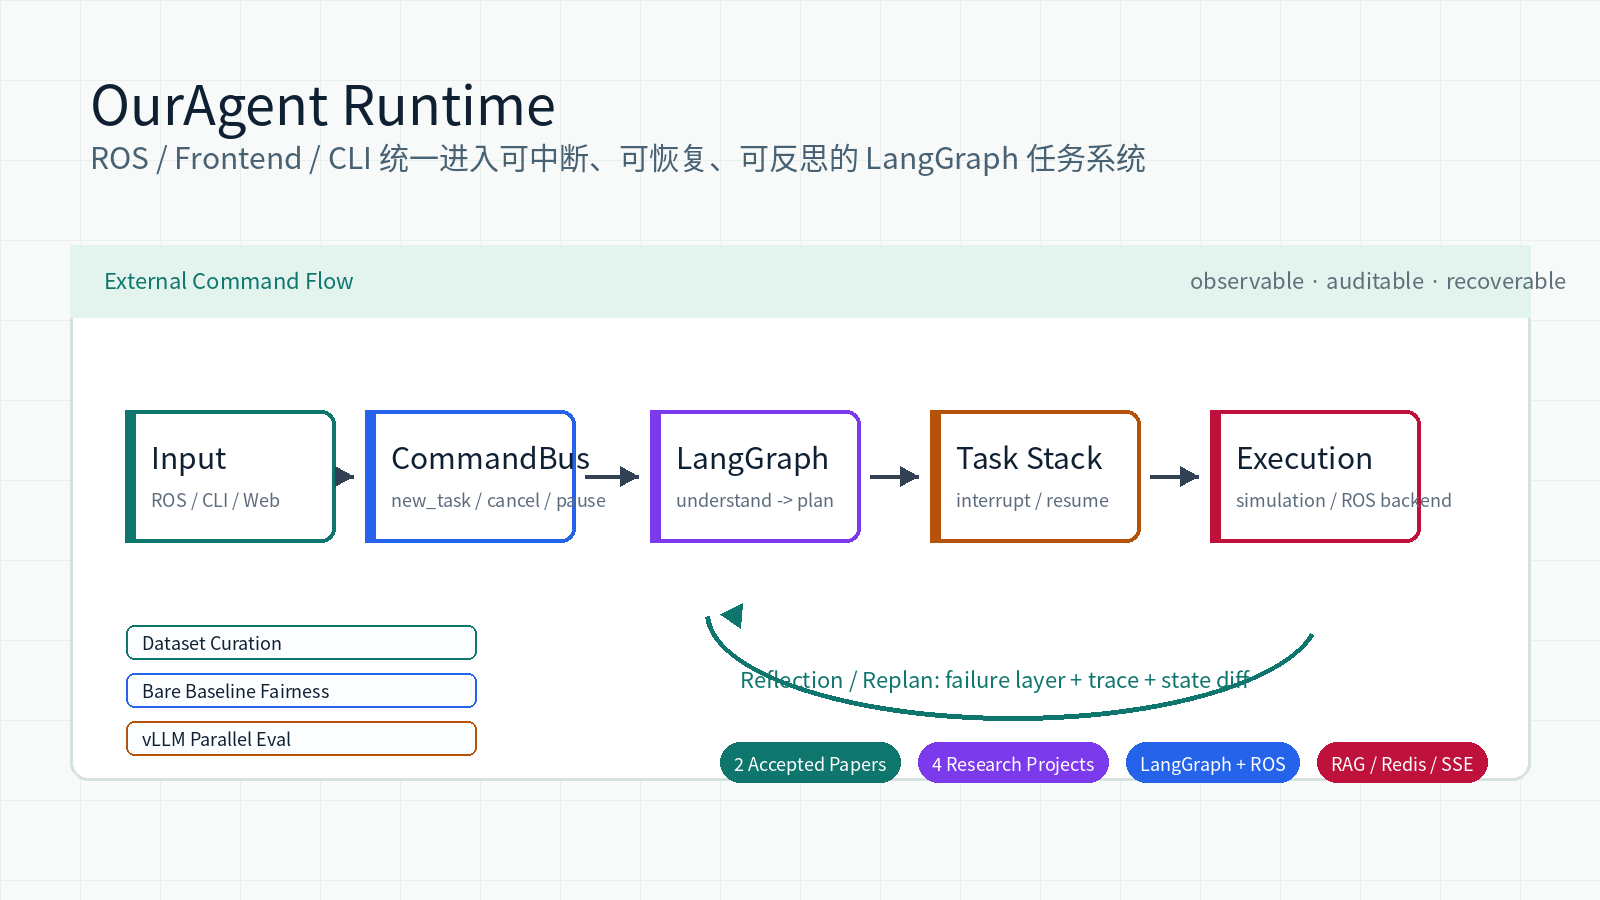
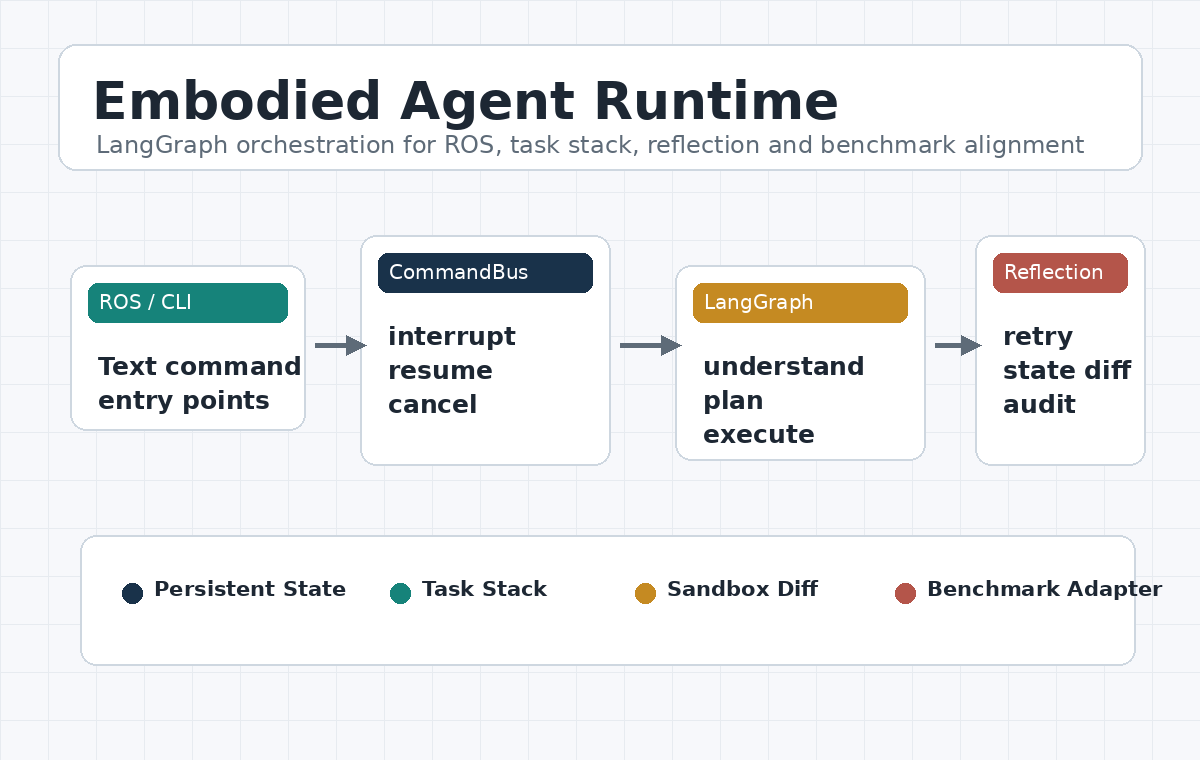
Polish Chinese portfolio profile

diff --git a/index.html b/index.html
@@ -28,11 +28,11 @@
           <div class="links">
             <a href="https://github.com/my420254">GitHub</a>
             <a href="https://gitee.com/my420254">Gitee</a>
-            <a href="README.md">Profile README</a>
+            <a href="README.md">项目主页</a>
           </div>
         </div>
         <figure class="hero-visual">
-          <img src="site/agent-runtime-visual.png" alt="OurAgent runtime workflow">
+          <img src="site/agent-runtime-visual.png" alt="Embodied Agent Runtime workflow">
         </figure>
       </div>
     </section>
@@ -113,12 +113,12 @@
 
     <section class="section">
       <div class="section-head">
-        <h2>OurAgent</h2>
+        <h2>Embodied Agent Runtime</h2>
         <span>LangGraph Runtime</span>
       </div>
       <div class="feature">
         <p>
-          <a href="https://github.com/my420254/OurAgent-he1">OurAgent-he1</a>
+          <a href="https://github.com/my420254/Embodied-Agent-Runtime">Embodied Agent Runtime</a>
           是面向 ROS / 前端 / CLI 的 LangGraph 常驻运行时，核心能力是 CommandBus、
           ROS 文本接入、任务栈式中断与恢复、取消暂停、分层反思，以及多模型评测调度。
         </p>
@@ -130,10 +130,6 @@
           <span>ROS</span>
           <span>Benchmark Adapter</span>
         </div>
-        <p>
-          <a href="https://github.com/my420254/OurAgent">OurAgent</a>
-          保留 benchmark 和论文方法对比版本，用于展示 DELTA / EAI / ReAcTree 等评测链路。
-        </p>
       </div>
     </section>
 

diff --git a/site/index.html b/site/index.html
@@ -28,11 +28,11 @@
           <div class="links">
             <a href="https://github.com/my420254">GitHub</a>
             <a href="https://gitee.com/my420254">Gitee</a>
-            <a href="../README.md">Profile README</a>
+            <a href="../README.md">项目主页</a>
           </div>
         </div>
         <figure class="hero-visual">
-          <img src="agent-runtime-visual.png" alt="OurAgent runtime workflow">
+          <img src="agent-runtime-visual.png" alt="Embodied Agent Runtime workflow">
         </figure>
       </div>
     </section>
@@ -113,12 +113,12 @@
 
     <section class="section">
       <div class="section-head">
-        <h2>OurAgent</h2>
+        <h2>Embodied Agent Runtime</h2>
         <span>LangGraph Runtime</span>
       </div>
       <div class="feature">
         <p>
-          <a href="https://github.com/my420254/OurAgent-he1">OurAgent-he1</a>
+          <a href="https://github.com/my420254/Embodied-Agent-Runtime">Embodied Agent Runtime</a>
           是面向 ROS / 前端 / CLI 的 LangGraph 常驻运行时，核心能力是 CommandBus、
           ROS 文本接入、任务栈式中断与恢复、取消暂停、分层反思，以及多模型评测调度。
         </p>
@@ -130,10 +130,6 @@
           <span>ROS</span>
           <span>Benchmark Adapter</span>
         </div>
-        <p>
-          <a href="https://github.com/my420254/OurAgent">OurAgent</a>
-          保留 benchmark 和论文方法对比版本，用于展示 DELTA / EAI / ReAcTree 等评测链路。
-        </p>
       </div>
     </section>
 

diff --git a/public_showcase.md b/public_showcase.md
@@ -1,182 +1,40 @@
-# 对外展示总览
+# 项目总览
 
-这份文档的用途很明确：把你这几年做的工作压成一条清晰的主线，方便你自己回忆，也方便后续改成简历、主页和面试讲述稿。
+这里汇总我的研究和工程项目，重点覆盖智能体运行时、参数高效微调、结构化 NLP 和大模型应用工程。
 
-## 你的岗位定位
+## 技术主线
 
-智能体研发，偏具身规划、大模型应用架构、数据治理和系统工程。
+```text
+数据集清洗与重构
+  -> LoRA / DoRA / PEFT 微调
+  -> 长尾与结构化 NLP 建模
+  -> vLLM 部署与并行评测
+  -> LangGraph 智能体运行时
+  -> ROS / 前端 / CLI 文本接入
+  -> RAG、Redis 记忆与流式服务
+```
 
-## 一句话主线
+## 项目矩阵
 
-你不是只做了单个模型，也不是只做了单个框架，而是把“数据清洗 -> 监督微调 -> 论文方法验证 -> 智能体运行时 -> benchmark 接入 -> 外部命令入口”这条链路真正打通了。
-
-## 公开项目矩阵
-
-| 名称 | 类型 | 状态 | 你可以强调的点 |
+| 项目 | 类型 | 状态 | 关键词 |
 | --- | --- | --- | --- |
-| Hy-MoRA | 长尾情感分析 PEFT 论文 | WISA 中文会议已接收 | 110M 级模型对标 7B LLM，长尾感知和部署效率同时成立 |
-| HiPro-LoRA | 低资源情感分析 PEFT 论文 | ECML-PKDD 已接收，CCF B | 严格 held-out 协议，验证集只做选择，测试集只做最终报告 |
-| SPEAR | ECPE 论文 | KBS 投稿版本，高影响力期刊方向 | 结构解耦、DoRA biaffine、R-Drop、窗口约束解码 |
-| FASTE | ASTE 论文 | ESWA 投稿版本，高影响力期刊方向 | 多层特征融合 + 对抗训练，兼顾边界对齐和实时性 |
-| OurAgent-he1 | 实习核心 Agent runtime | 已公开 | LangGraph + ROS 文本服务 + CommandBus + 中断恢复 + 反思闭环 |
-| OurAgent | benchmark / paper method runtime | 已公开 | DELTA / EAI / ReAcTree 多 benchmark，对比论文方法和裸基线 |
-| Agentic-RAG-Platform | 大模型应用工程展示 | 已公开 | FastAPI + SSE + Redis + RAG + Vue3，覆盖企业知识库和多工具 Agent |
+| [Embodied Agent Runtime](https://github.com/my420254/Embodied-Agent-Runtime) | 具身智能体运行时 | 实习核心项目 | LangGraph、ROS2、CommandBus、任务栈、中断恢复、反思重试 |
+| [HiPro-LoRA](https://github.com/my420254/HiPro-LoRA) | PEFT 论文项目 | ECML-PKDD 已接收，CCF B | LoRA、长尾学习、严格 held-out、LLM baseline |
+| [Hy-MoRA](https://github.com/my420254/Hy-Mora) | PEFT 论文项目 | WISA 中文会议已接收 | 中文社交媒体、尾部记忆、层次化语义聚合、部署效率 |
+| [FASTE](https://github.com/my420254/FASTE) | ASTE 论文项目 | ESWA 投稿版本 | 三元组抽取、span-based、MLFF、AT-FGM |
+| [SPEAR / ECPE](https://github.com/my420254/ECPE) | ECPE 论文项目 | KBS 投稿版本 | 情绪原因对抽取、DoRA-biaffine、R-Drop、窗口解码 |
+| [Agentic-RAG-Platform](https://github.com/my420254/Agentic-RAG-Platform) | 大模型应用工程 | 展示项目 | FastAPI、SSE、Redis、RAG、Vue3、工具调用 |
 
-## 1. Hy-MoRA
+## 代表能力
 
-### 解决的问题
+- **从数据到模型**：能够处理原始数据清洗、类别分布重构、训练/验证/测试协议设计和可复现实验输出。
+- **从方法到论文**：能够完成方法设计、消融实验、敏感性分析、图表生成、实验对比和投稿材料整理。
+- **从模型到系统**：能够把大模型能力接入 LangGraph runtime、ROS 文本入口、CommandBus、执行后端和 benchmark 评测链路。
+- **从原型到展示**：能够把 RAG、Redis、SSE、工具调用和前端工作台组织成可阅读、可运行、可扩展的工程骨架。
 
-中文社交媒体长尾情感分析里，少数类特征容易退化，常规 LoRA 在低秩约束下很难把尾部类别拉开。
+## 当前公开入口
 
-### 你做了什么
-
-- 设计了层次化语义聚合模块，缓解 `[CLS]` 单点表征不够用的问题。
-- 设计了尾部感知记忆对齐模块，用原型记忆和尾部加权对比目标强化少数类边界。
-- 把部署阶段和训练阶段解耦，确保推理时没有额外延迟。
-
-### 亮点
-
-- 110M 参数级别就能和 7B LLM 做有效对比。
-- 在 SMP2020-EWECT 上，Macro-F1 相比 Qwen-2.5 7B 基线提升 6.12 个百分点。
-- 推理吞吐量约提升 55 倍，适合高并发舆情场景。
-
-### 对外讲法
-
-“我做的是一个能落地的长尾感知 PEFT 框架，不只是把 LoRA 调一调，而是把表示瓶颈和尾部边界问题一起处理掉。”
-
-## 2. HiPro-LoRA
-
-### 解决的问题
-
-低资源、长尾分布下，LoRA 容易出现 minority class 表征退化，特别是在严格 held-out 设置下，很多方法一到最终测试就掉点。
-
-### 你做了什么
-
-- 设计了层次化池化模块，补足单纯 `[CLS]` 的信息损失。
-- 设计了 prototype memory regularization，让尾部类别的几何边界更稳定。
-- 用严格 held-out 协议重新组织实验，避免把验证集选择和最终报告混在一起。
-
-### 亮点
-
-- 在 6 组 held-out 配置里，Tail-F1 有 5 组最优，Macro-F1 有 4 组最优。
-- 在 SMP2020、SST-5、TweetEval 三个数据上都能保持稳定优势。
-- 对比的是严格 few-shot / ICL 设定下的大模型结果，结论更硬。
-
-### 对外讲法
-
-“我不是只做了一个更大的模型，而是把低资源场景里的表征退化问题拆开、测透、再修好。”
-
-## 3. SPEAR / ECPE
-
-### 解决的问题
-
-情感-原因对提取本质上是一个高精度结构抽取任务，现有方法容易在长距离噪声和过拟合上出问题。
-
-### 你做了什么
-
-- 做了跨度感知的 clause 表征，补足纯 CLS 表示的粗糙性。
-- 引入 DoRA biaffine scoring，提升解耦打分的稳定性。
-- 用 R-Drop 和窗口约束解码抑制过置信预测和远距离假阳性。
-
-### 亮点
-
-- 严格 10 折交叉验证下达到 77.24% F1。
-- 比此前最优基线提升 0.87 个百分点。
-- Precision 提升幅度更明显，说明模型不是只“追召回”，而是结构更稳。
-
-### 对外讲法
-
-“我把 ECPE 从单纯堆模型，推进到更讲结构归纳偏置的抽取框架，强调高精度和可解释的边界约束。”
-
-## 4. FASTE / ASTE
-
-### 解决的问题
-
-ASTE 里很多方法只看最后一层，边界信息和局部语法很容易丢，导致 triplet 边界错位。
-
-### 你做了什么
-
-- 做多层特征融合，把中间层语法信息拉回来。
-- 加入对抗训练，平滑高噪文本下的损失地形。
-- 保持非生成式抽取路线，兼顾边界精度和实时性。
-
-### 亮点
-
-- 在 ASTE-Data-V2 上达到非生成式系统里的强结果。
-- 14lap 上 F1 到 66.60。
-- 模型体量和吞吐量都适合工程部署，而不是只适合论文图表。
-
-### 对外讲法
-
-“我做的是一个面向真实应用的 ASTE 框架，不是泛泛的情感分析 baseline。”
-
-## 5. OurAgent-he1 / OurAgent
-
-### 解决的问题
-
-把模型真正放进智能体 runtime 之后，问题不再是“能不能预测”，而是：
-
-- 外部指令怎么进来
-- 新任务来了怎么插单
-- 旧任务怎么挂起和恢复
-- 失败后怎么分层反思
-- 多 benchmark 怎么统一跑
-
-### 你做了什么
-
-- 用 LangGraph 拆成 Understanding / Planning / Task Management / Reflection 四阶段。
-- 做 CommandBus，把 ROS 文本、CLI 命令和外部输入统一成结构化任务流。
-- 设计任务栈式中断与恢复，支持多层嵌套插单。
-- 把 benchmark、执行器和本地大模型调用解耦，方便并行跑多个环境。
-- 把 `main.py` 收敛成正式 ROS / 前端入口，把 `scripts/run_agent.py` 收敛成 CLI 调试入口。
-
-### 亮点
-
-- 这不是脚本集合，而是一个有运行时边界的 agent framework。
-- 你已经把“模型能力”变成“能接任务、能恢复、能追踪、能复盘”的系统能力。
-- 对外讲的时候，这一块最能体现你是系统型智能体研发，不是只会调 prompt。
-- `OurAgent-he1` 展示实时任务接入、中断恢复、取消暂停和 ROS 端到端链路。
-- `OurAgent` 展示 benchmark 对比、paper method / bare baseline 公平评测和多数据集实验组织。
-
-### 对外讲法
-
-“我把一个规划模型接进了可中断、可恢复、可反思的智能体系统，真正做到了训练、部署、评估、调度一体化。”
-
-## GitHub / Gitee 展示建议
-
-### GitHub 主页
-
-主页只放三件事：
-
-1. 你是谁，做什么
-2. 你最强的 4 篇论文和 1 个系统框架
-3. 你的公开链接和联系方式
-
-### 仓库 README
-
-每个仓库都按同一个模板写：
-
-1. 一句话问题定义
-2. 方法框图或模块说明
-3. 核心结果
-4. 运行入口
-5. 论文状态
-
-### Gitee 镜像
-
-Gitee 只负责国内可访问，不要和 GitHub 两套内容分裂。
-
-## 后续还能继续补的展示方向
-
-- RAG：`Agentic-RAG-Platform` 已补第一版，后续可加入真实向量库、reranker 和评测集
-- Agent：工具调用、任务分解、长短期记忆、失败恢复
-- LLM Ops：并行调度、推理服务、量化、吞吐和延迟优化
-- 数据方向：清洗、对齐、抽样、评测集构造、偏差分析
-
-你后面如果继续做这些内容，GitHub 主页就不需要重新装修，只要往同一套结构里加新卡片即可。
-
-## 公共口径边界
-
-- 可以写：已接收、投稿中、最终版已提交、核心结果、系统能力。
-- 不建议先写：未经官方确认的录取率、夸大的排名、无法复现的绝对速度数字。
-- 需要写录取率时，补官方来源后再写。
+- GitHub：<https://github.com/my420254>
+- Gitee：<https://gitee.com/my420254>
+- Portfolio：<https://my420254.github.io/my420254/>
+- Email：1127141319@qq.com

diff --git a/README.md b/README.md
@@ -1,64 +1,40 @@
 # 张梦洋
 
-智能体研发 / 具身规划 / 长尾感知与 PEFT / 论文与系统工程
+**智能体研发 / 大模型应用算法 / NLP 与参数高效微调**
 
-我做的不是单点模型，而是把论文方法、实验协议和运行时系统做成闭环。
-论文、代码、实验、图表和稿件整理均由本人主导完成。
+邮箱：1127141319@qq.com
 
-## 我最强的几件事
+GitHub Pages：<https://my420254.github.io/my420254/>
 
-- 能把原始数据清洗成可训练、可审计、可复现的数据集
-- 能把 LoRA / DoRA / prototype memory / hierarchical pooling 落到可跑代码
-- 能把模型接进 LangGraph / ROS / CommandBus / benchmark runtime
-- 能把并行推理、评测协议、部署吞吐和结果复盘一起管住
+Gitee 镜像：<https://gitee.com/my420254>
 
-## 代表成果
+我关注大模型智能体、具身任务规划、NLP 结构化抽取和参数高效微调。过去的工作覆盖了从数据集清洗、模型训练、论文实验，到 LangGraph 运行时、ROS/前端文本接入、vLLM 并行评测和 RAG 工程化展示的完整链路。
 
-| 项目 | 状态 | 我做的核心工作 | 结果亮点 |
+## 研究与工程方向
+
+- **智能体运行时**：LangGraph 图编排、CommandBus 外部命令通道、任务栈式中断恢复、执行反馈、失败反思与局部重试。
+- **参数高效微调**：LoRA / DoRA / PEFT、长尾学习、原型记忆、层次化语义聚合、低资源情感分析。
+- **结构化 NLP**：情感原因对抽取、方面级情感三元组抽取、span-based 表示、biaffine 关系建模、对抗训练。
+- **大模型工程化**：vLLM 部署、多端口并行实验、RAG 检索增强生成、Redis 会话记忆、FastAPI/SSE 流式服务。
+
+## 代表项目
+
+| 项目 | 状态 | 核心内容 | 价值 |
 | --- | --- | --- | --- |
-| [Hy-MoRA](https://github.com/my420254/Hy-Mora) | WISA 中文会议已接收 | 设计层次化语义聚合 + 尾部感知记忆对齐，完成实验与图表整理 | 110M 级 PEFT 框架，在 SMP2020-EWECT 上对标 7B LLM，Macro-F1 提升 6.12 个百分点，吞吐量提升约 55 倍 |
-| [HiPro-LoRA](https://github.com/my420254/HiPro-LoRA) | ECML-PKDD 已接收，CCF B | 做严格 held-out 协议、完成结果整理和稳定性验证 | 5/6 配置 Tail-F1 最优，4/6 配置 Macro-F1 最优 |
-| [SPEAR](https://github.com/my420254/ECPE) | KBS 投稿版本，高影响力期刊方向 | 设计 span-aware 表征、DoRA biaffine、R-Drop 和窗口约束解码 | 10 折交叉验证 F1 达到 77.24% |
-| [FASTE](https://github.com/my420254/FASTE) | ESWA 投稿版本，高影响力期刊方向 | 设计多层特征融合 + 对抗训练，并完成论文图表与实验闭环 | ASTE 抽取达到强基线水平，兼顾边界精度与工程实时性 |
-| [OurAgent-he1](https://github.com/my420254/OurAgent-he1) | 实习核心项目 | 把规划能力接入 LangGraph runtime、ROS 文本服务和 CommandBus | 支持外部文本接入、任务插单、栈式恢复、取消暂停、反思重试 |
-| [OurAgent](https://github.com/my420254/OurAgent) | benchmark 版本 | 多 benchmark 适配、论文方法对比、裸基线公平评测 | 支持 DELTA / EAI / ReAcTree 等多任务评测链路 |
-| [Agentic-RAG-Platform](https://github.com/my420254/Agentic-RAG-Platform) | 工程展示项目 | 构建 FastAPI + SSE + Redis memory + RAG + Vue3 的 Agentic RAG 骨架 | 覆盖大厂常问的检索、重排、记忆、工具调用、流式输出和工程化部署 |
+| [Embodied Agent Runtime](https://github.com/my420254/Embodied-Agent-Runtime) | 实习核心项目 | 面向 ROS / 前端 / CLI 的 LangGraph 具身智能体运行时 | 统一文本接入、任务插单、中断恢复、取消暂停、失败反思和 benchmark 对齐 |
+| [HiPro-LoRA](https://github.com/my420254/HiPro-LoRA) | ECML-PKDD 已接收，CCF B | 低资源长尾情感分析的参数高效微调方法与严格 held-out 评测包 | 在多组配置中提升 Tail-F1 / Macro-F1，并保持可复现实验口径 |
+| [Hy-MoRA](https://github.com/my420254/Hy-Mora) | WISA 中文会议已接收 | 中文社交媒体长尾情感分析 PEFT 框架，结合层次化语义聚合与尾部记忆对齐 | 以 110M 级模型对标 7B LLM，在精度、吞吐和部署成本之间取得更优平衡 |
+| [FASTE](https://github.com/my420254/FASTE) | ESWA 投稿版本 | 面向 ASTE 的 span-based 三元组抽取框架，多层特征融合 + 对抗训练 | 强化边界对齐和跨词关系建模，适合结构化情感分析任务 |
+| [SPEAR / ECPE](https://github.com/my420254/ECPE) | KBS 投稿版本 | 情绪原因对抽取框架，结合 span-aware 表征、DoRA-biaffine 打分和 R-Drop 正则 | 面向文档级结构化抽取，提升配对精度和训练稳定性 |
+| [Agentic-RAG-Platform](https://github.com/my420254/Agentic-RAG-Platform) | 工程展示项目 | FastAPI + SSE + Redis + RAG + Vue3 的企业知识库智能体骨架 | 展示检索、重排、记忆、工具调用、流式输出和前后端服务化能力 |
 
-## 我的工作风格
+## 技术栈
 
-我更偏算法开发，但不会只停在算法本身。
-我会把方法、数据、评测、部署、文档和演示一起做完，让一个项目能被真正看懂、跑通、复现和展示。
+`Python` · `PyTorch` · `Transformers` · `PEFT` · `LoRA` · `DoRA` · `LangGraph` · `LangChain` · `FastAPI` · `Redis` · `SSE` · `Vue3` · `vLLM` · `ROS2` · `RAG`
 
-## 我在做什么
+## 项目阅读顺序
 
-- 把原始数据整理成可训练、可审计、可复现的数据集
-- 把论文里的方法对比、图表、显著性检验和部署评估做成完整链路
-- 把单次推理结果变成可调度、可中断、可恢复的 agent runtime
-- 把模型能力扩展到多 benchmark、多模型、多进程并行的实际环境
-
-## 正在推进 / 未来展示方向
-
-- RAG / 检索增强生成
-- 多 Agent 协同与任务编排
-- 大模型部署、评测和推理加速
-- 面向实际业务的数据治理与算法落地
-
-## 公开仓库
-
-- [Hy-Mora](https://github.com/my420254/Hy-Mora)
-- [HiPro-LoRA](https://github.com/my420254/HiPro-LoRA)
-- [ECPE / SPEAR](https://github.com/my420254/ECPE)
-- [FASTE / ASTE](https://github.com/my420254/FASTE)
-- [OurAgent-he1 / ROS-LangGraph Runtime](https://github.com/my420254/OurAgent-he1)
-- [OurAgent / Benchmark Runtime](https://github.com/my420254/OurAgent)
-- [Agentic-RAG-Platform / RAG 工程展示](https://github.com/my420254/Agentic-RAG-Platform)
-
-## 关键词
-
-Long-tailed learning, PEFT, LoRA, DoRA, prototype memory, sentiment analysis, ECPE, ASTE, LangGraph, ROS, CommandBus, RAG, FastAPI, SSE, Redis, Vue3, benchmark orchestration.
-
-## 联系方式
-
-- GitHub: `my420254`
-- Gitee: `my420254`
-- 邮箱: `按你的正式邮箱补上`
+1. [Embodied Agent Runtime](https://github.com/my420254/Embodied-Agent-Runtime)：了解具身智能体运行时、外部文本接入和任务管理。
+2. [HiPro-LoRA](https://github.com/my420254/HiPro-LoRA) 与 [Hy-MoRA](https://github.com/my420254/Hy-Mora)：了解 PEFT、长尾学习和严格实验协议。
+3. [Agentic-RAG-Platform](https://github.com/my420254/Agentic-RAG-Platform)：了解大模型应用服务化、RAG、Redis 记忆和 SSE 流式输出。
+4. [FASTE](https://github.com/my420254/FASTE) 与 [SPEAR / ECPE](https://github.com/my420254/ECPE)：了解结构化 NLP 抽取任务与论文级实验组织。
